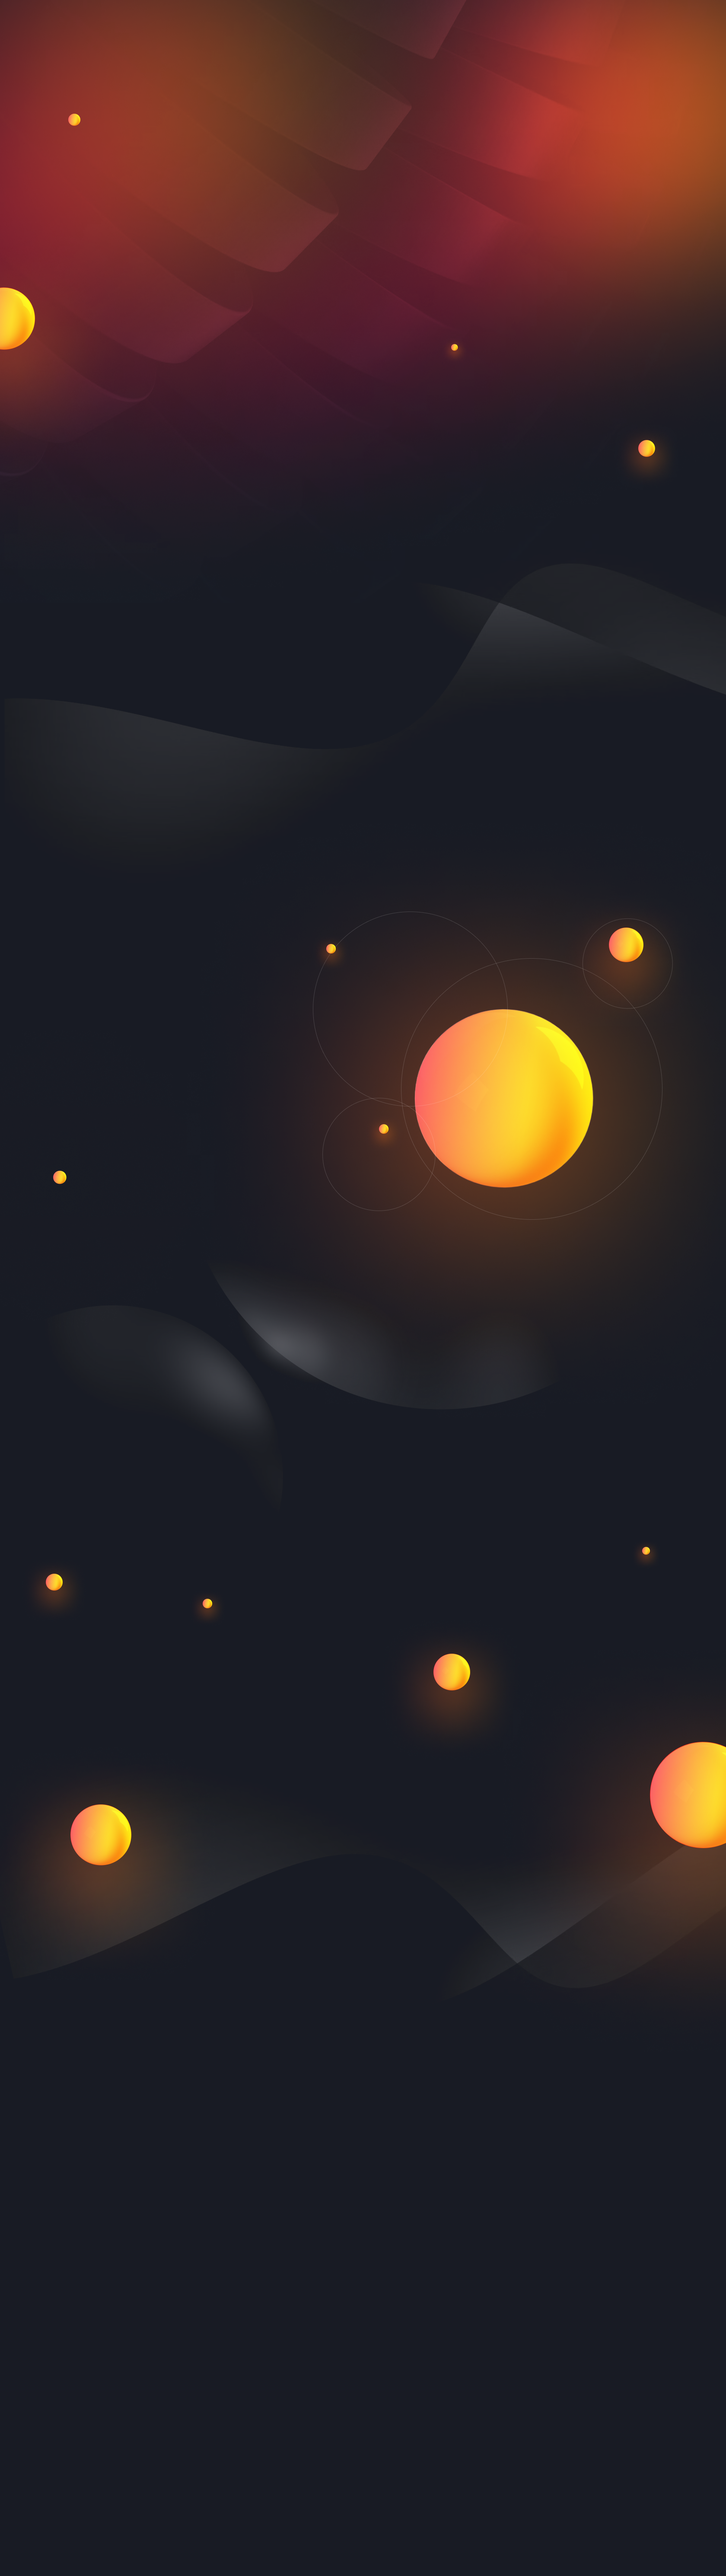
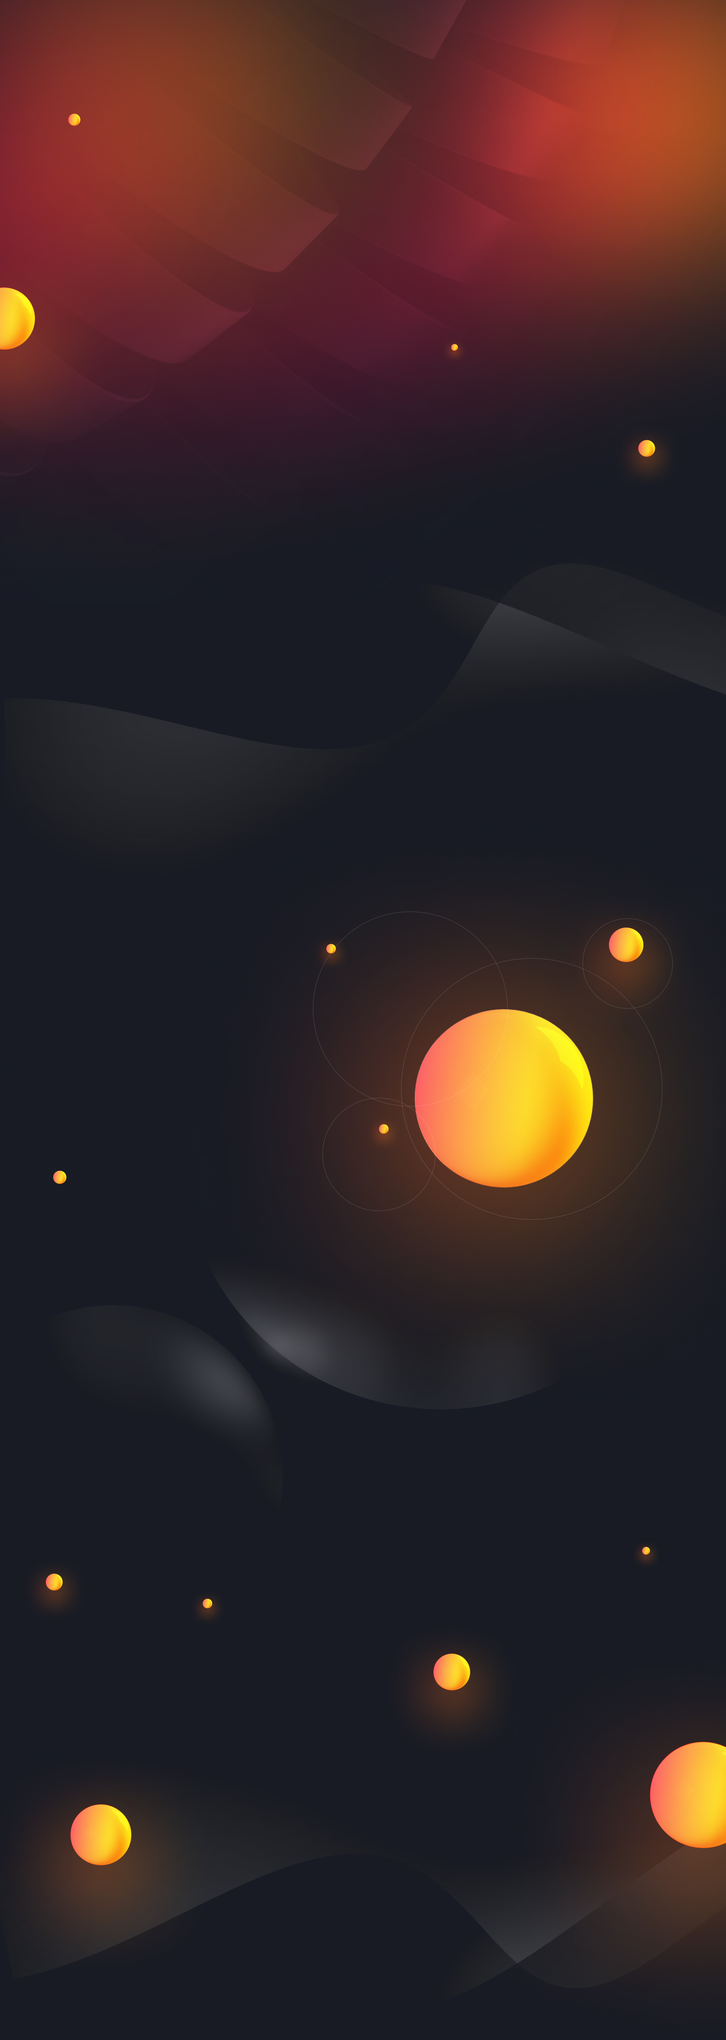
roadmapPage

diff --git a/src/pages/about.js b/src/pages/about.js
@@ -12,10 +12,11 @@ import JoinTeamSection from "../components/Sections/JoinTeamSection";
 
 const Section = styled.div`
     width: 100vw;
-    height: 5360px;
+    height: 4250px;
     display: flex;
     flex-direction: column;
     background: url(${Back}), black;
+    background-repeat: no-repeat;
     background-size: contain;
 `;
 

diff --git a/src/pages/tokenomics.js b/src/pages/tokenomics.js
@@ -13,7 +13,7 @@ import InvestorsSection from "../components/Sections/InvestorsSection";
 
 const Section = styled.div`
     width: 100vw;
-    height: 8200px;
+    height: 7800px;
     background: url(${Back}), black;
     background-size: contain;
     background-repeat: no-repeat;

diff --git a/src/pages/roadmap.js b/src/pages/roadmap.js
@@ -15,7 +15,7 @@ import RoadmapSection from "../components/Sections/RoadmapSection";
 
 const Section = styled.div`
     width: 100vw;
-    height: 8200px;
+    height: 9000px;
     background: url(${Back}), black;
     background-size: contain;
     background-repeat: no-repeat;

diff --git a/src/pages/index.js b/src/pages/index.js
@@ -17,7 +17,7 @@ import SmartBG from "../images/home/SmartBG.png";
 
 const Section = styled.div`
     width: 100vw;
-    height: 4050px;
+    height: 3600px;
     background: url(${BG}), black;
     background-size: contain;
     background-repeat: no-repeat;

diff --git a/src/components/Sections/RoadmapSection.js b/src/components/Sections/RoadmapSection.js
@@ -4,7 +4,7 @@ import {motion} from "framer-motion";
 
 const Section = styled.div`
     width: 100%;
-    height: 200vh;
+    height: 220vh;
     display: flex;
     border: 1px solid white;
 `;
